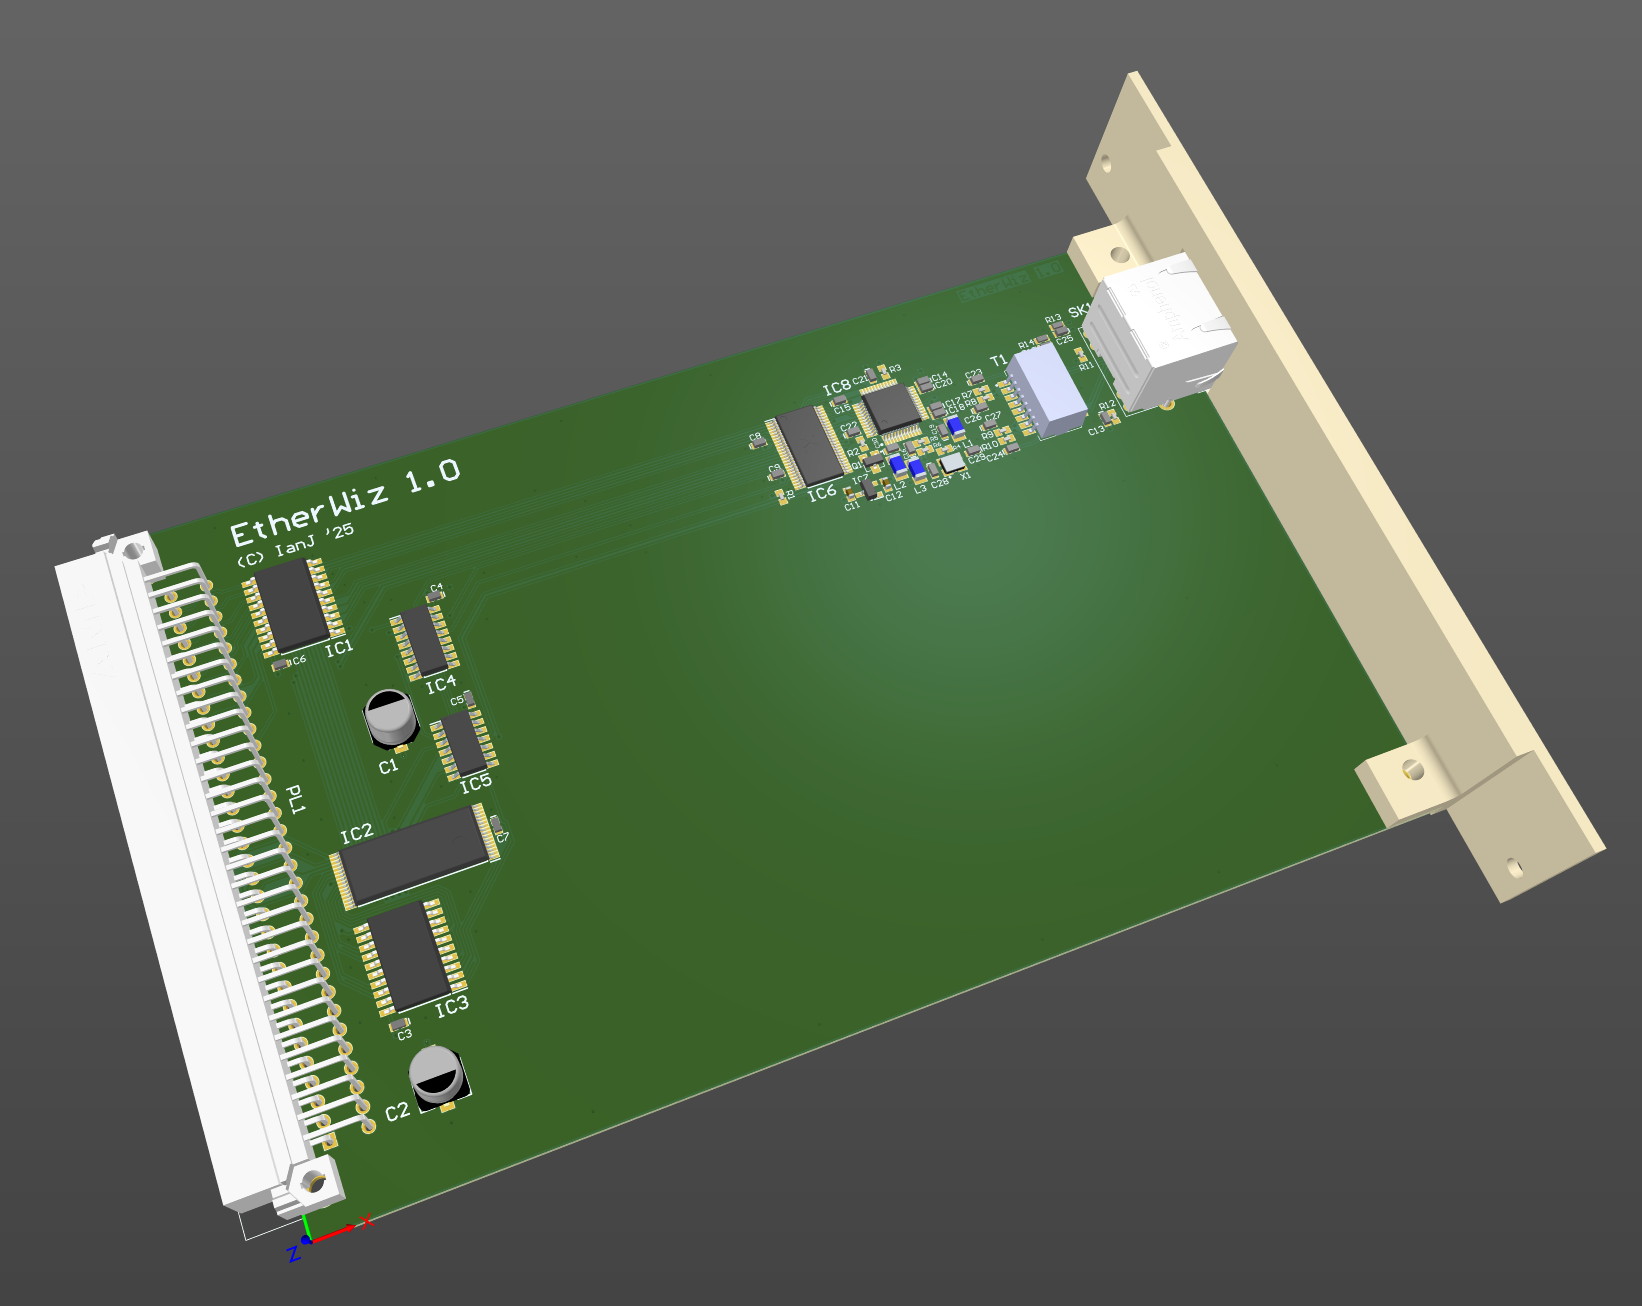
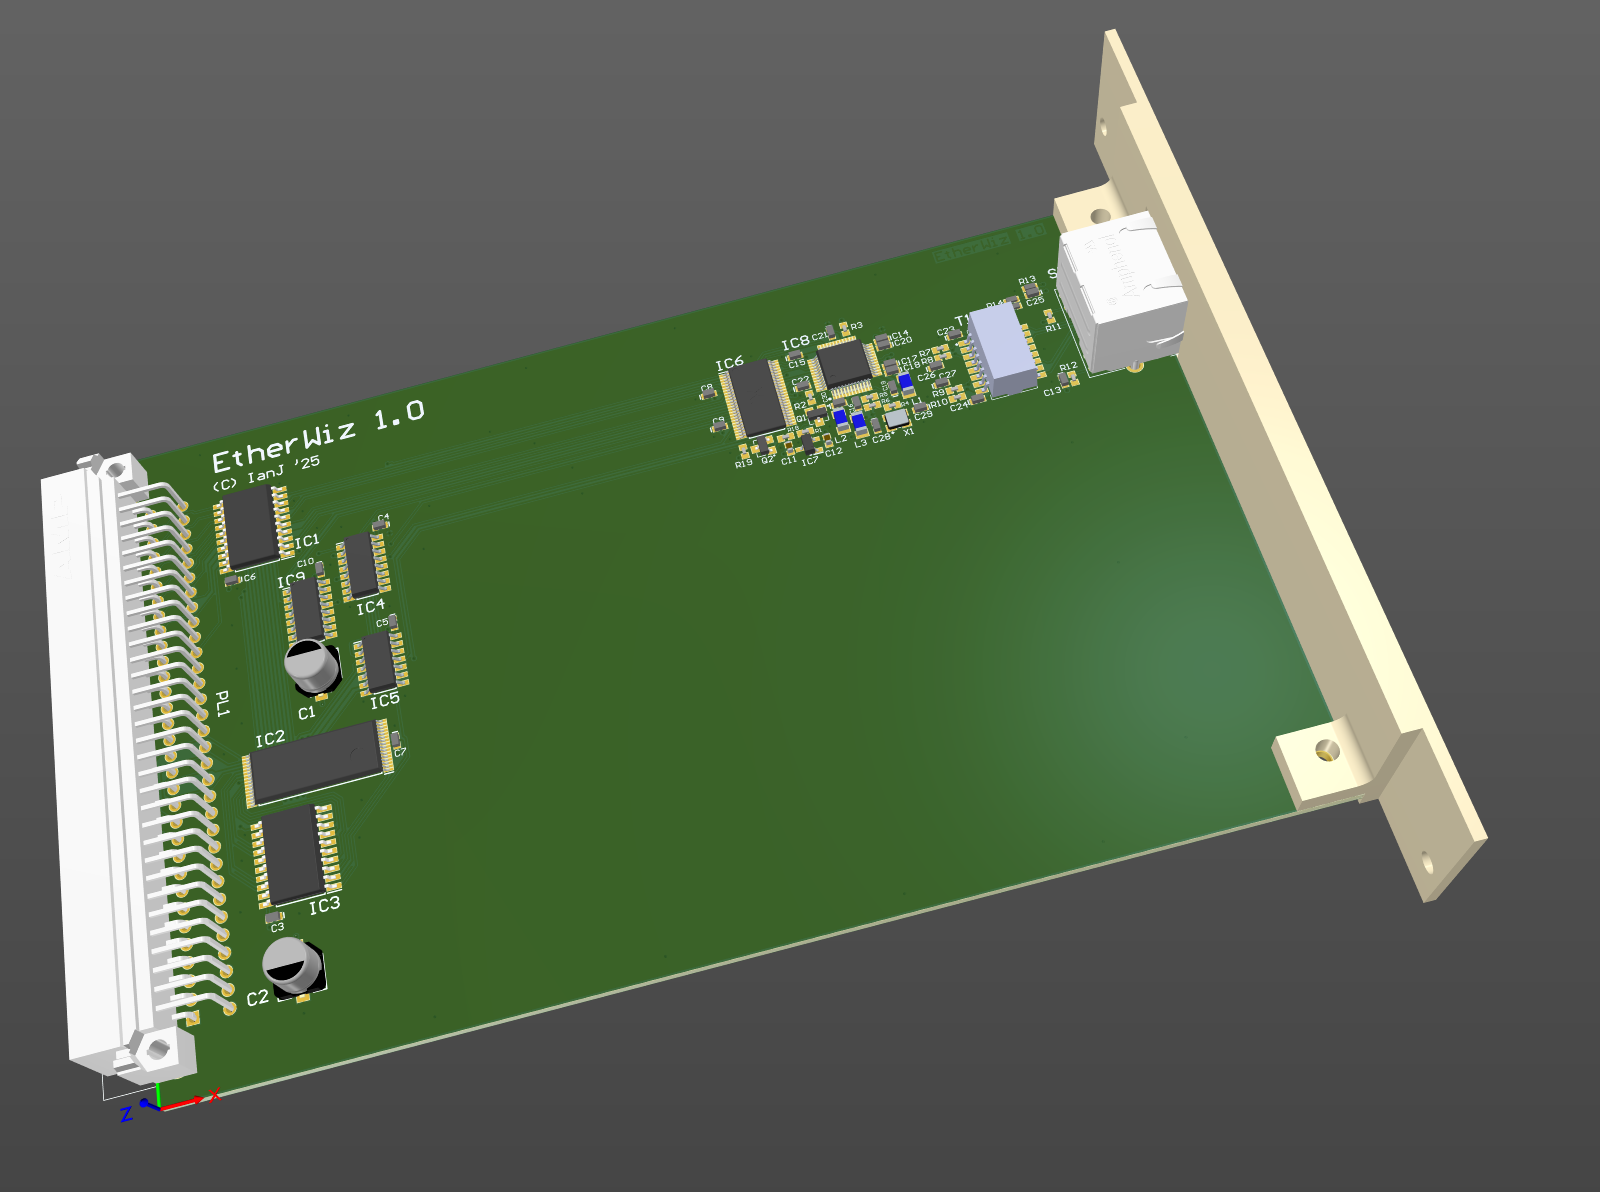
Update build and test status

Changed region(s): [[0.0, 0.031, 1.0, 0.9622], [0.5625, 0.745, 0.625, 0.776]]

diff --git a/README.md b/README.md
@@ -1,11 +1,16 @@
 # "EtherWiz" Acorn Ethernet podule (WizNet W6100)
 
-June 2025
+July 2025
 
 ![3D View](Generated/EtherWiz_3D_View.png)
 
-Very early work in progress hardware design for an Ethernet card using the WizNet W6100 device in MACRAW mode.
+A work in progress hardware design for an Ethernet card using the WizNet W6100 device in MACRAW mode.  No 'legacy' components - everything is available as new/active hardware.   There's 512K flash on board rather than a podule ROM - the flash can be updated from RISC OS.
 
+The first spin board works, with bodges, which have been worked in to the updated design which has not yet been validated.  Interrupts have not yet been tested.
+
+The design for the 3D-printable backplate is included.
+
+All RISC OS code (EtherWiz DCI4 Ethernet driver, podule binder, flashing code) is all my own work, written from scratch in BASIC assembler, OpenSource, and will be made available via GitHub as soon as stable.
 
 ## Licence
 
